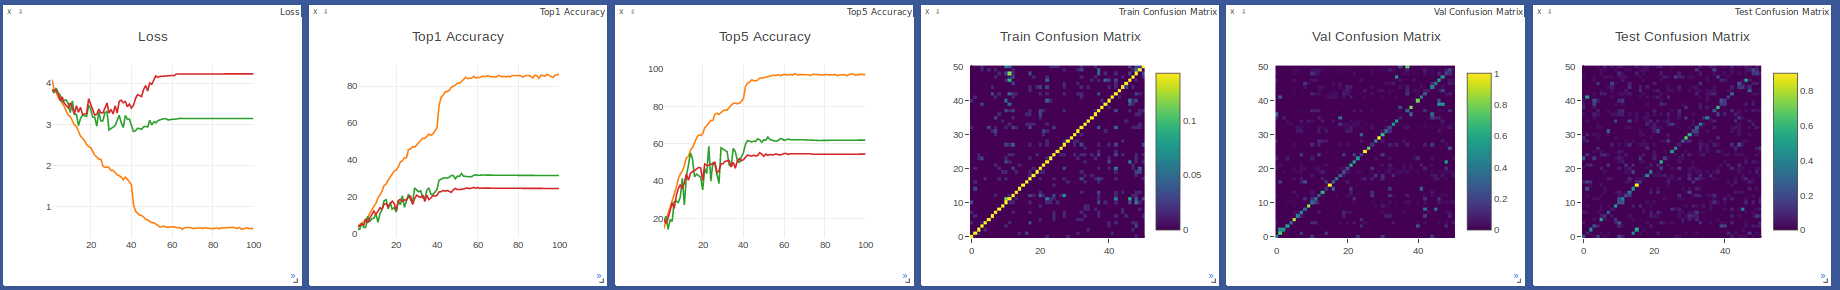
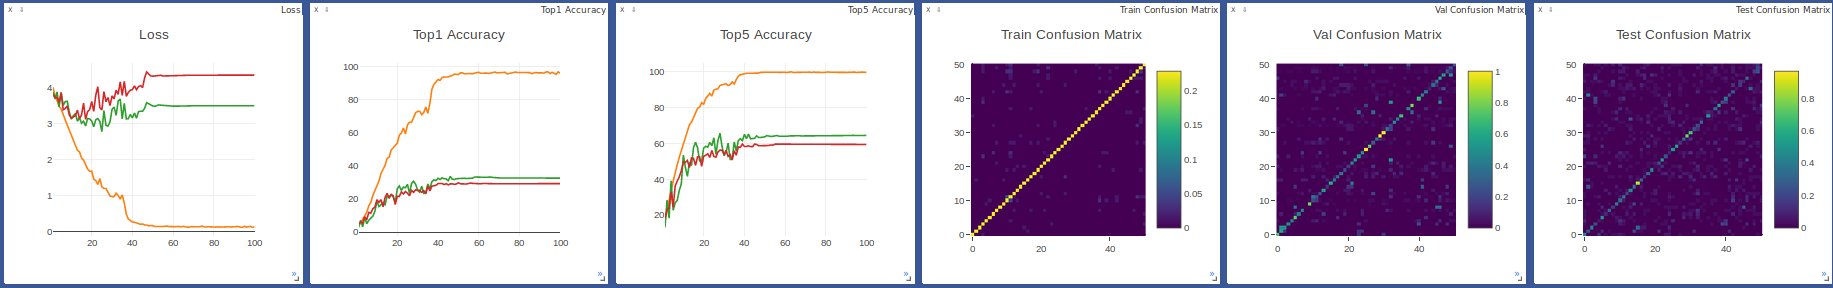
add results

diff --git a/README.md b/README.md
@@ -115,11 +115,11 @@ Here is the model parameter, accuracy and training time details:
     <tr>
       <td align="center">C3D</td>
       <td align="center">78,409,573</td>
-      <td align="center">/</td>
+      <td align="center">52.42%</td>
       <td align="center">6.5h</td>
       <td align="center">78,204,723</td>
-      <td align="center">/</td>
-      <td align="center">/</td>
+      <td align="center"><b>29.80%</b></td>
+      <td align="center">2.4h</td>
     </tr>
     <tr>
       <td align="center">R2Plus1D</td>
@@ -127,8 +127,8 @@ Here is the model parameter, accuracy and training time details:
       <td align="center">/</td>
       <td align="center">10.8h</td>
       <td align="center">33,195,340</td>
-      <td align="center">/</td>
-      <td align="center">/</td>
+      <td align="center">27.12%</td>
+      <td align="center">3.9h</td>
     </tr>
     <tr>
       <td align="center">STTS</td>
@@ -136,8 +136,8 @@ Here is the model parameter, accuracy and training time details:
       <td align="center"><b>/</b></td>
       <td align="center">13.8h</td>
       <td align="center">33,182,723</td>
-      <td align="center">/</td>
-      <td align="center">/</td>
+      <td align="center">29.02%</td>
+      <td align="center">5.2h</td>
     </tr>
     <tr>
       <td align="center">STTS-A</td>
@@ -145,8 +145,8 @@ Here is the model parameter, accuracy and training time details:
       <td align="center">/</td>
       <td align="center">16.9h</td>
       <td align="center">37,318,689</td>
-      <td align="center">/</td>
-      <td align="center">/</td>
+      <td align="center">29.48%</td>
+      <td align="center">6.3h</td>
     </tr>
   </tbody>
 </table>
@@ -161,7 +161,7 @@ The train/val/test loss, accuracy and confusion matrix are showed on visdom.
 **STTS**
 ![result](results/ucf101_stts.png)
 **STTS-A**
-![result](results/ucf101_stts_a.png)
+![result](results/ucf101_stts-a.png)
 
 ### HMDB51
 **C3D**
@@ -169,7 +169,7 @@ The train/val/test loss, accuracy and confusion matrix are showed on visdom.
 **R2Plus1D**
 ![result](results/hmdb51_r2plus1d.png)
 **STTS**
-![result](results/ucf101_stts.png)
+![result](results/hmdb51_stts.png)
 **STTS-A**
-![result](results/ucf101_c3d.png)
+![result](results/hmdb51_stts-a.png)
 
